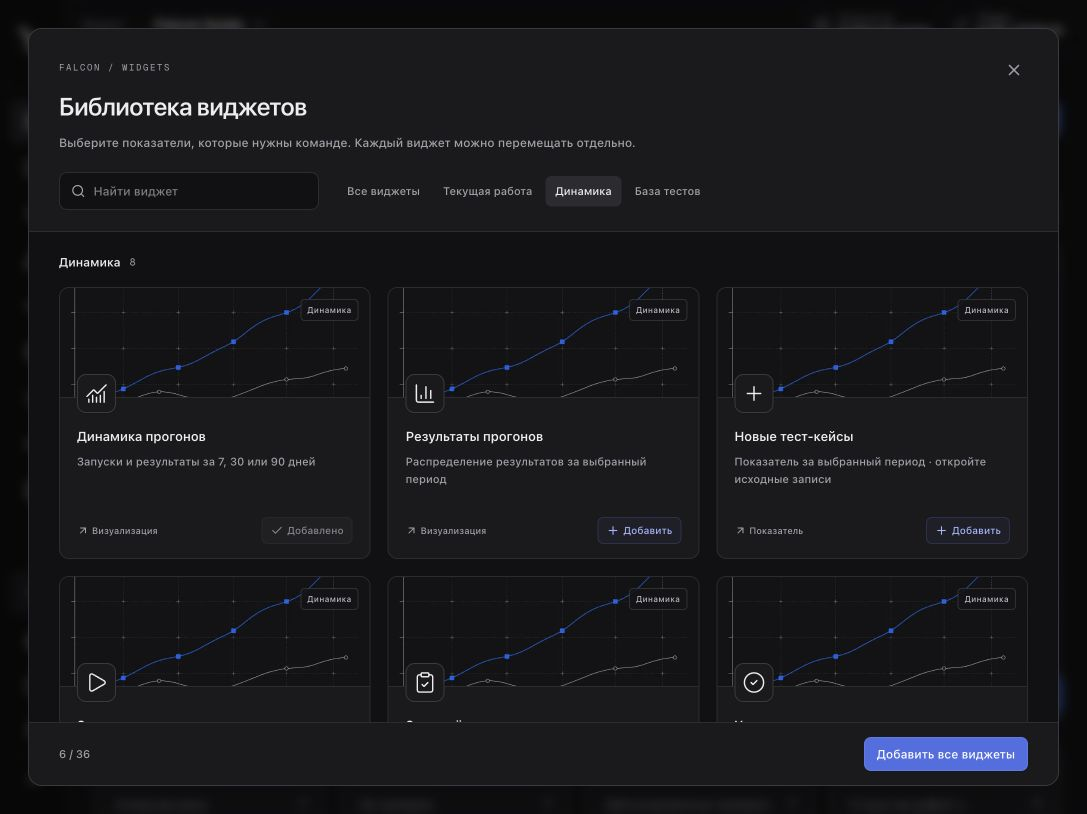
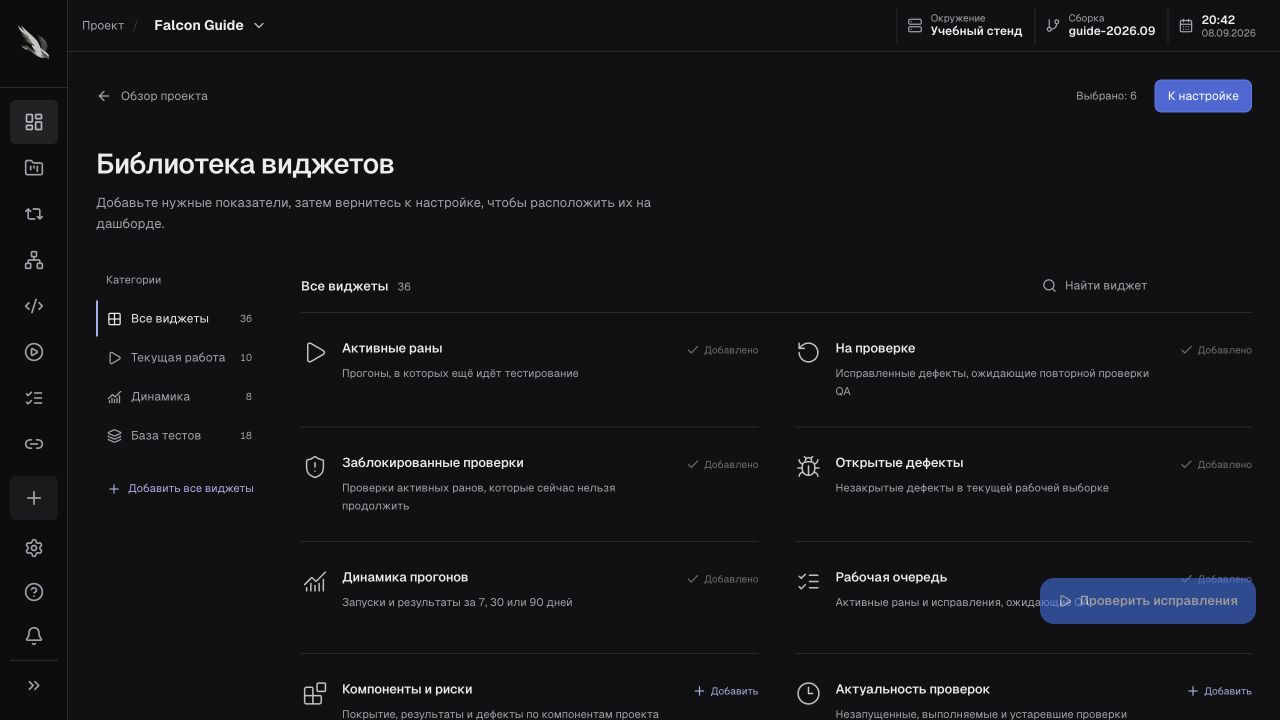
fix(dashboard): constrain metric widths and restore interactions after editing

diff --git a/app/src/modules/core-tms/presentation/dashboard/customize/grid/SortableWidget.tsx b/app/src/modules/core-tms/presentation/dashboard/customize/grid/SortableWidget.tsx
@@ -3,8 +3,9 @@ import { GripVertical, X } from "lucide-react";
 import { useSortable, defaultAnimateLayoutChanges } from "@dnd-kit/sortable";
 import { CSS } from "@dnd-kit/utilities";
 import { motion, useReducedMotion } from "framer-motion";
-import type { CSSProperties, ReactNode } from "react";
+import { useLayoutEffect, useRef, type CSSProperties, type ReactNode } from "react";
 import type { BoardWidget } from "../../../../dashboards/layout/model/layout";
+import { widgetByKey, widgetKey, widgetLayoutWidth } from "../../../../dashboards/layout/model/widget-catalog";
 import { useTmsLocale } from "../../../../localization/context/useTmsLocale";
 import { useWidgetRows } from "./measurement/useWidgetRows";
 import styles from "../layout.module.css";
@@ -15,25 +16,29 @@ export function SortableWidget({ widget, title, editing, disabled, onRemove, onR
 }) {
   const { t } = useTmsLocale(); const reduced = useReducedMotion();
   const measured = useWidgetRows();
+  const content = useRef<HTMLDivElement>(null);
+  useLayoutEffect(() => { if (content.current) content.current.inert = editing; }, [editing]);
+  const compact = widgetByKey.get(widgetKey(widget))?.width === 3;
+  const width = widgetLayoutWidth(widget);
   const sortable = useSortable({ id: widget.id, disabled: !editing || disabled,
     animateLayoutChanges: (args) => !reduced && defaultAnimateLayoutChanges({ ...args, wasDragging: true }),
     transition: reduced ? null : { duration: 240, easing: "cubic-bezier(.2,.8,.2,1)" } });
   const name = { name: title };
   return <div ref={(node) => { sortable.setNodeRef(node); measured.ref(node); }} className={`${styles.widget} ${editing ? styles.editingWidget : ""}`}
-    data-widget-id={widget.id} data-widget-title={title} data-widget-width={widget.position.width}
-    style={{ "--widget-span": widget.position.width, gridRowEnd: `span ${measured.rows}`, transform: CSS.Translate.toString(sortable.transform),
+    data-widget-id={widget.id} data-widget-title={title} data-widget-width={width} data-widget-kind={compact ? "metric" : "panel"}
+    style={{ "--widget-span": width, gridRowEnd: `span ${measured.rows}`, transform: CSS.Translate.toString(sortable.transform),
       transition: sortable.transition, opacity: sortable.isDragging ? .3 : 1 } as CSSProperties}>
     {editing && <div className={styles.widgetTools}>
       <button type="button" ref={sortable.setActivatorNodeRef} {...sortable.attributes} {...sortable.listeners}
         className={styles.dragHandle} disabled={disabled} aria-label={t("dashboardLayout.move", name)} title={t("dashboardLayout.move", name)}><GripVertical size={16} /></button>
       <span title={title}>{title}</span>
-      <AnimatedSelect compact className={styles.widthSelect} label={t("dashboardLayout.size", name)} value={String(widget.position.width)} disabled={disabled}
+      {!compact && <AnimatedSelect compact className={styles.widthSelect} label={t("dashboardLayout.size", name)} value={String(width)} disabled={disabled}
         onChange={(value) => onResize(widget.id, Number(value))} options={[
           {value:"3",label:t("dashboardLayout.small")},{value:"6",label:t("dashboardLayout.medium")},{value:"12",label:t("dashboardLayout.large")},
-        ]} />
+        ]} />}
       <button type="button" disabled={disabled} onClick={() => onRemove(widget.id)} aria-label={t("dashboardLayout.remove",name)}><X size={14} /></button>
     </div>}
     <motion.div className={styles.widgetContent} initial={reduced ? false : { opacity: 0, scale: .985 }} animate={{ opacity: 1, scale: 1 }} transition={{ duration: .18 }}
-      ref={(element) => { if (element) element.inert = editing; }}>{children}</motion.div>
+      ref={content}>{children}</motion.div>
   </div>;
 }

diff --git a/app/src/modules/core-tms/documentation/content/start/dashboard.ts b/app/src/modules/core-tms/documentation/content/start/dashboard.ts
@@ -7,7 +7,7 @@ export const dashboardArticle: DocArticle = {
     section("customization", "Создайте дашборд проекта", paragraph("У каждого проекта свой дашборд. В новом проекте экран пустой: Falcon не переносит чужую раскладку и не добавляет виджеты автоматически. Сохранённый дашборд общий для команды проекта."), steps(
       ["Начните настройку", "Откройте Дашборд в нужном проекте и нажмите **Создать дашборд**. Задайте название прямо в заголовке."],
       ["Выберите виджеты", "Нажмите **Добавить виджеты**. Откроется отдельный экран библиотеки в текущем проекте. Используйте поиск или категории: Текущая работа, Динамика, База тестов. Рядом с названием описано назначение показателя. Нажмите **Добавить** у нужных виджетов или **Добавить все виджеты**, чтобы начать с полного набора."],
-      ["Расположите по приоритету", "Нажмите **К настройке** и перетащите виджет за ручку в его верхней полосе. Выбранные виджеты остаются в черновике до сохранения. В меню ширины выберите компактный формат, половину или всю ширину. На узком экране сетка складывается в одну колонку."],
+      ["Расположите по приоритету", "Нажмите **К настройке** и перетащите виджет за ручку в его верхней полосе. Выбранные виджеты остаются в черновике до сохранения. Числовые показатели всегда компактны. Для графиков и списков в меню ширины выберите компактный формат, половину или всю ширину. На узком экране сетка складывается в одну колонку."],
       ["Сохраните результат", "Нажмите **Сохранить**. Инструменты настройки исчезнут. Для следующих изменений используйте **карандаш «Настроить»** в шапке. **Отмена** возвращает сохранённую раскладку."])),
     section("editing", "Как меняется раскладка", bullets(
       "Каждый показатель, график и список — отдельный виджет. Например, можно оставить только На проверке, Динамику прогонов и Рабочую очередь.",

diff --git a/app/src/modules/core-tms/dashboards/layout/tests/controller.test.ts b/app/src/modules/core-tms/dashboards/layout/tests/controller.test.ts
@@ -2,7 +2,7 @@ import assert from "node:assert/strict";
 import test from "node:test";
 import { DashboardLayoutController } from "../application/DashboardLayoutController";
 import { LayoutError, type LayoutSource, type ProjectBoard, moveWidget, placeWidgets } from "../model/layout";
-import { createBoardWidget, widgetCatalog } from "../model/widget-catalog";
+import { createBoardWidget, widgetCatalog, widgetLayoutWidth } from "../model/widget-catalog";
 
 const scope = { workspaceId: "w", projectId: "p" };
 const widgets = widgetCatalog.slice(0,6).map((entry,index) => createBoardWidget(entry,"en",`w${index}`));
@@ -64,4 +64,17 @@ test("repeated catalog additions do not duplicate a widget, even with a new clie
   assert.equal(c.getState().draft?.widgets.length,widgets.length);
   c.remove("w0"); c.add([{...widgets[0],id:"reinstalled"}]);
   assert.equal(c.getState().draft?.widgets[widgets.length - 1]?.id,"reinstalled");
+});
+
+test("legacy full-width metrics render compactly and are normalized only in the editing draft",async()=>{
+  const oldMetric = {...widgets[0],position:{...widgets[0].position,width:12}};
+  const legacy = {...board,widgets:[oldMetric,widgets[4]]};
+  const {controller:c}=setup({load:async()=>legacy}); await c.load();
+  assert.equal(widgetLayoutWidth(oldMetric),3);
+  assert.equal(c.getState().board?.widgets[0].position.width,12);
+  c.edit(""); assert.equal(c.getState().draft?.widgets[0].position.width,3);
+  c.resize(oldMetric.id,12); assert.equal(c.getState().draft?.widgets[0].position.width,3);
+  c.resize(widgets[4].id,12); assert.equal(c.getState().draft?.widgets[1].position.width,12);
+  c.cancel(); assert.equal(c.getState().board?.widgets[0].position.width,12);
+  c.edit(""); await c.save(); assert.equal(c.getState().board?.widgets[0].position.width,3);
 });

diff --git a/app/src/modules/core-tms/dashboards/layout/model/layout.ts b/app/src/modules/core-tms/dashboards/layout/model/layout.ts
@@ -1,4 +1,5 @@
 import type { components } from "../../../../../core/tms/generated/tms-api";
+import { widgetLayoutWidth } from "./widget-catalog";
 
 type Wire = components["schemas"];
 export type WidgetType = Wire["DashboardWidgetType"];
@@ -25,7 +26,7 @@ export type LayoutState = {
 export function placeWidgets(widgets: readonly BoardWidget[]): BoardWidget[] {
   let x = 0; let y = 0; let rowHeight = 0;
   return widgets.map((widget) => {
-    const width = Math.min(12, Math.max(3, widget.position.width));
+    const width = Math.min(12, Math.max(3, widgetLayoutWidth(widget)));
     if (x + width > 12) { x = 0; y += rowHeight; rowHeight = 0; }
     const next = { ...widget, position: { x, y, width, height: widget.position.height } };
     rowHeight = Math.max(rowHeight, widget.position.height);

diff --git a/app/src/modules/core-tms/dashboards/layout/model/widget-catalog.ts b/app/src/modules/core-tms/dashboards/layout/model/widget-catalog.ts
@@ -83,6 +83,9 @@ export function widgetKey(widget: BoardWidget): string {
   return typeof widget.settings.presentation === "string" ? widget.settings.presentation :
     ({ summary: "currentCases", run_progress: "trend", recent_activity: "freshness", defects: "defects", assigned_to_me: "queue" })[widget.type];
 }
+export function widgetLayoutWidth(widget: BoardWidget): number {
+  return widgetByKey.get(widgetKey(widget))?.width === 3 ? 3 : widget.position.width;
+}
 export function createBoardWidget(definition: WidgetDefinition, locale: string, id: string): BoardWidget {
   return { id, type: definition.type, title: locale === "ru" ? definition.ru : definition.en,
     position: { x: 0, y: 0, width: definition.width, height: definition.width === 3 ? 1 : 3 },

diff --git a/app/src/modules/core-tms/dashboards/layout/application/DashboardLayoutController.ts b/app/src/modules/core-tms/dashboards/layout/application/DashboardLayoutController.ts
@@ -32,7 +32,7 @@ export class DashboardLayoutController {
   edit = (name: string) => {
     if (this.state.loading || this.state.saving || this.state.retryPending) return;
     const board = this.state.board;
-    this.emit({ draft: board ? { name: board.name, widgets: board.widgets } : { name, widgets: [] }, failure: null });
+    this.emit({ draft: board ? { name: board.name, widgets: placeWidgets(board.widgets) } : { name, widgets: [] }, failure: null });
   };
   cancel = () => {
     if (this.state.saving || this.state.retryPending) return;

diff --git a/app/src/modules/core-tms/presentation/dashboard/customize/layout.module.css b/app/src/modules/core-tms/presentation/dashboard/customize/layout.module.css
@@ -77,3 +77,4 @@
 .page.page [role="listbox"] [role="option"]:focus-visible { outline: 1px solid var(--action); outline-offset: -1px; }
 
 @container dashboard-page (max-width: 600px) { .actions { max-width: 100%; flex: 1 1 100%; }.header { align-items: flex-start; } }
+.widget[data-widget-kind="metric"] .widgetTools > span { display: block; }

diff --git a/docs/dashboard-customization.md b/docs/dashboard-customization.md
@@ -8,7 +8,7 @@ The 36 catalog entries can be added, removed, resized and reordered. A pencil op
 
 The widget library is a full page within the existing Falcon shell. It preserves the global navigation and project context. Categories, search and compact icon/text entries replace the former modal and image-cover cards. Back to layout preserves the editing draft; Save publishes it to the project. The library does not mount a portal, backdrop or focus trap.
 
-Numeric widgets use compact label/value rows with full values in their accessible labels and tooltips. The CSS grid reserves measured row spans from intrinsic content height, so a counter is not stretched to a neighboring chart. ResizeObserver recomputes spans for changes in width, content and editing controls; DOM ordering and the existing persisted layout remain authoritative. Tags and coverage use a single interactive bar/list representation, and defect statuses adapt to the widget container width.
+Numeric widgets always use the compact width, including legacy saved metrics configured at full width; editing normalizes their persisted positions and cancel leaves the stored layout untouched. Only visual and list widgets expose width controls. Numeric widgets use compact label/value rows with full values in their accessible labels and tooltips. The CSS grid reserves measured row spans from intrinsic content height, so a counter is not stretched to a neighboring chart. ResizeObserver recomputes spans for changes in width, content and editing controls; DOM ordering and the existing persisted layout remain authoritative. Tags and coverage use a single interactive bar/list representation, and defect statuses adapt to the widget container width.
 
 ## Artwork provenance
 
